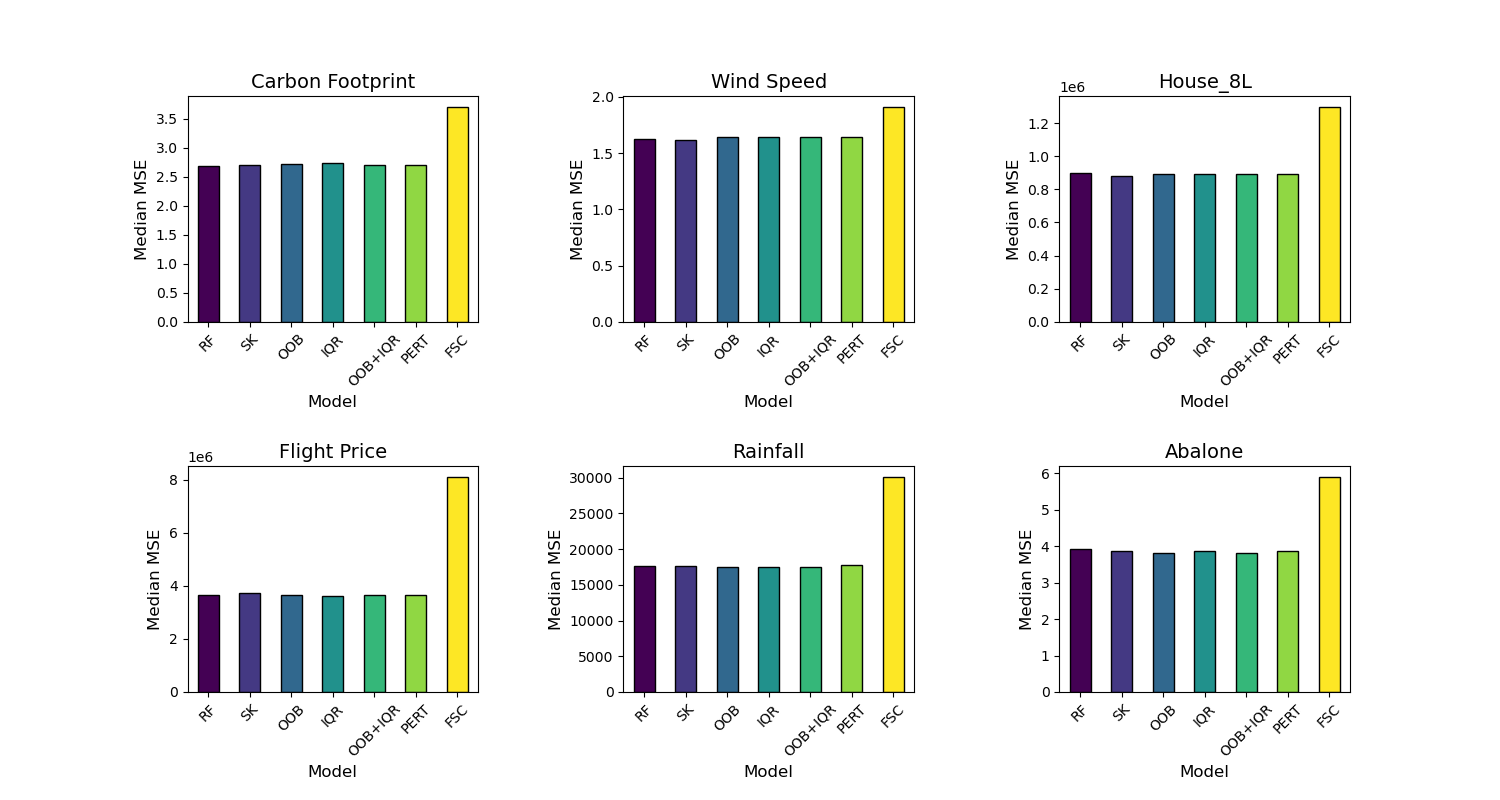
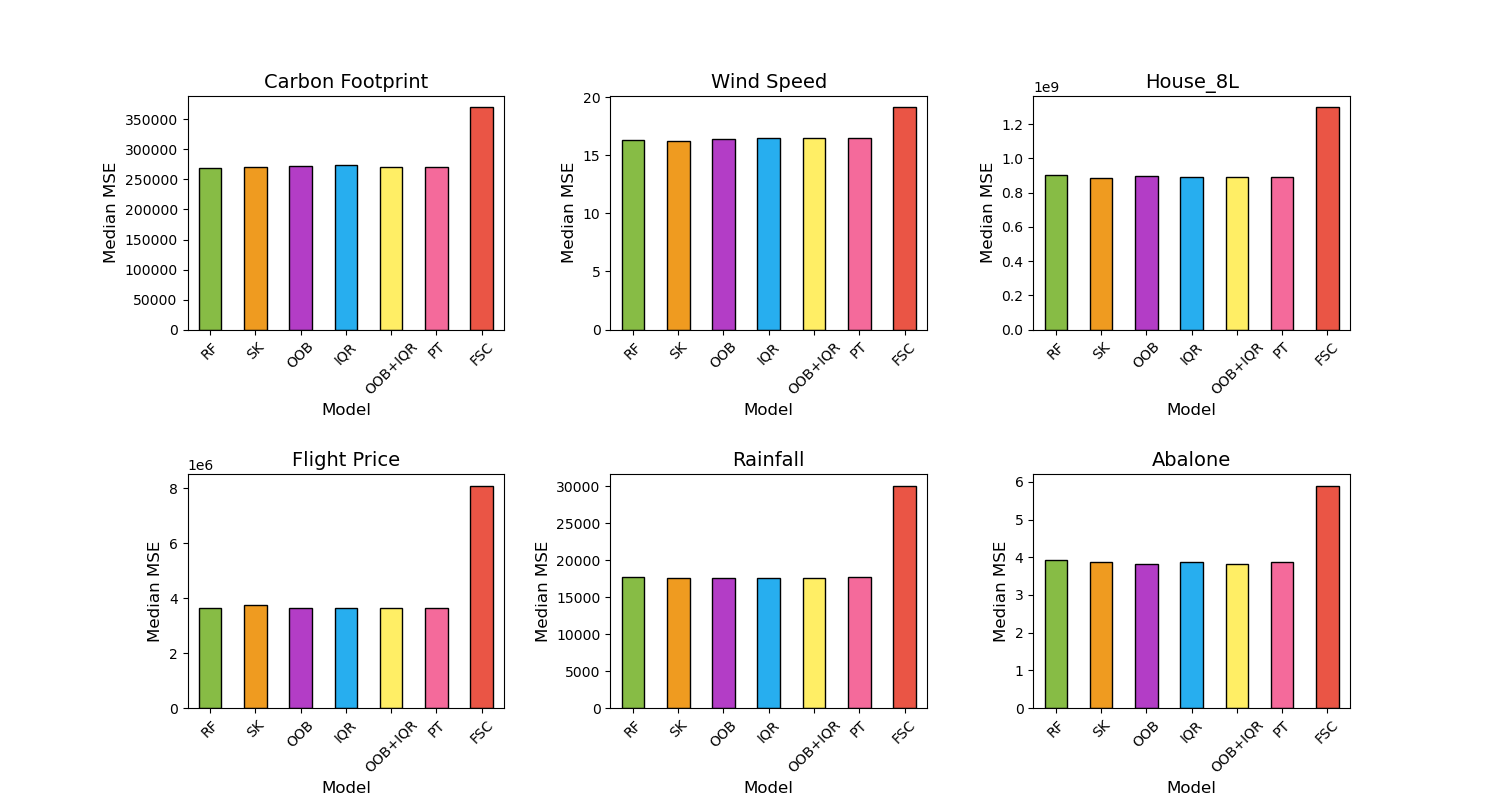
heatmap grids

diff --git a/src/results_analysis/heatmap_graph.py b/src/results_analysis/heatmap_graph.py
@@ -1,0 +1,68 @@
+import numpy as np
+import pandas as pd
+import seaborn as sns
+import matplotlib.pyplot as plt
+
+# Load data
+datasets = [
+    {'file': '../resultados_grid_search/Carbon_Emission/Carbon_Emission_Percentile_Trimming.npy', 'title': 'Carbon Footprint'},
+    {'file': '../resultados_grid_search/Wind/Wind_Percentile_Trimming.npy', 'title': 'Wind Speed'},
+    {'file': '../resultados_grid_search/House_8L/House_8L_Percentile_Trimming.npy', 'title': 'House_8L'}
+]
+
+columns = ['n_estimators', 'group_size', 'max_depth', 'percentile', 'MSE']
+n_estimators_limit = 1250  # Set the upper limit for n_estimators
+
+# Set up figure
+cols = 3  # Number of columns
+rows = 1  # Number of rows
+fig, axes = plt.subplots(rows, cols, figsize=(15, 5), constrained_layout=True, gridspec_kw={'wspace': 0.05})
+
+# Iterate through datasets and create heatmaps
+for i, dataset in enumerate(datasets):
+    # Load the data
+    data = np.load(dataset['file'], allow_pickle=True)
+    df = pd.DataFrame(data, columns=columns)
+
+    #df = df[df['n_estimators'] <= n_estimators_limit]
+    #df = df[df['percentile'] == 2]
+
+    # Sort and pivot data
+    df = df.sort_values(by=['group_size', 'percentile'])
+    heatmap_data = df.pivot_table(index='group_size', columns='percentile', values='MSE')
+    heatmap_data = heatmap_data.sort_index(ascending=False)
+
+    # Create a mask for missing values
+    mask = heatmap_data.isnull()
+
+    # Plot heatmap
+    sns.heatmap(
+        heatmap_data,
+        ax=axes[i],
+        annot=False,
+        fmt=".2f",
+        cmap="Reds",
+        mask=mask,  # Mask for NaN values
+        cbar_kws={'label': 'MSE'} if i == cols - 1 else None,  # Only show colorbar on the last heatmap
+        linewidths=0.5,  # Adds grid lines
+        linecolor='black'  # Grid lines color for NaN regions
+    )
+
+    # Fill NaN areas with gray color using the axis patch
+    axes[i].patch.set_facecolor('gray')
+
+    # Customize each subplot
+    axes[i].set_title(dataset['title'], fontsize=14)
+    axes[i].set_xlabel('percentile')
+    axes[i].set_ylabel('group_size')
+
+    # Set integer ticks for x-axis and y-axis
+    axes[i].set_xticks(range(0, len(heatmap_data.columns), max(1, len(heatmap_data.columns) // 10)))  # Show fewer x-ticks
+    axes[i].set_xticklabels(heatmap_data.columns[::max(1, len(heatmap_data.columns) // 10)].astype(int))  # Reduce x-tick labels
+    
+    axes[i].set_yticks(range(len(heatmap_data.index)))
+    axes[i].set_yticklabels(heatmap_data.index.astype(int))
+
+# Adjust layout and show plot
+plt.suptitle('MSE Heatmaps (FSC)', fontsize=16, y=1.10)
+plt.show()

diff --git a/src/resultados_kfold/graficos_kfold_kruskal.py b/src/resultados_kfold/graficos_kfold_kruskal.py
@@ -20,7 +20,7 @@ cols = 3
 rows = (num_datasets + cols - 1) // cols  # Calculate rows based on dataset count and columns
 
 # Define consistent order for models
-model_order = ['RF', 'SK', 'OOB', 'IQR', 'OOB+IQR', 'PERT', 'FSC']
+model_order = ['RF', 'SK', 'OOB', 'IQR', 'OOB+IQR', 'PT', 'FSC']
 
 # Create the figure and axes
 fig, axes = plt.subplots(rows, cols, figsize=(15, rows * 4))
@@ -29,6 +29,16 @@ axes = axes.flatten()
 # Ensure save directory exists
 output_dir = "graficos_kfold"
 os.makedirs(output_dir, exist_ok=True)
+
+color_mapping = {
+    'RF': '#87bc45',
+    'SK': '#ef9b20',
+    'OOB': '#b33dc6',
+    'IQR': '#27aeef',
+    'OOB+IQR': '#ffee65',
+    'PT': '#f46a9b',
+    'FSC': '#ea5545'
+}
 
 # Iterate through datasets and plot
 for i, dataset in enumerate(datasets):
@@ -41,16 +51,16 @@ for i, dataset in enumerate(datasets):
     data = pd.read_csv(dataset['file'])
 
     # Adjust MSE scaling based on the dataset title
-    scale_factors = {
-        'Carbon Footprint': 100000,
-        'Wind Speed': 10,
-        'House_8L': 1000,
-        'Flight Price': 1,
-        'Rainfall': 1,
-        'Abalone': 1
-    }
-    if dataset['title'] in scale_factors:
-        data['MSE'] /= scale_factors[dataset['title']]
+    # scale_factors = {
+    #     'Carbon Footprint': 100000,
+    #     'Wind Speed': 10,
+    #     'House_8L': 1000,
+    #     'Flight Price': 1000000,
+    #     'Rainfall': 10000,
+    #     'Abalone': 10
+    # }
+    # if dataset['title'] in scale_factors:
+    #     data['MSE'] /= scale_factors[dataset['title']]
 
     # Map old model names to new ones
     rename_mapping = {
@@ -60,7 +70,7 @@ for i, dataset in enumerate(datasets):
         'IQRRandomForestRegressor': 'IQR',
         'OOBPlusIQRRandomForestRegressor': 'OOB+IQR',
         'OOB_plus_IQR': 'OOB+IQR',
-        'PercentileTrimmingRandomForestRegressor': 'PERT',
+        'PercentileTrimmingRandomForestRegressor': 'PT',
         'FirstSplitCombinerRandomForestRegressor': 'FSC',
         'RFRegressorFirstSplitCombiner': 'FSC'
     }
@@ -74,8 +84,11 @@ for i, dataset in enumerate(datasets):
 
     # Use the Viridis colormap
     num_bars = len(median_mse)
-    viridis = plt.get_cmap('viridis')  # Compatible with older Matplotlib versions
-    colors = viridis(np.linspace(0, 1, num_bars))
+    # Get colors for bars
+    colors = [color_mapping[model] for model in median_mse.index]
+
+    # viridis = plt.get_cmap('viridis')  # Compatible with older Matplotlib versions
+    # colors = viridis(np.linspace(0, 1, num_bars))
 
     # Plot bar graph
     ax = axes[i]
